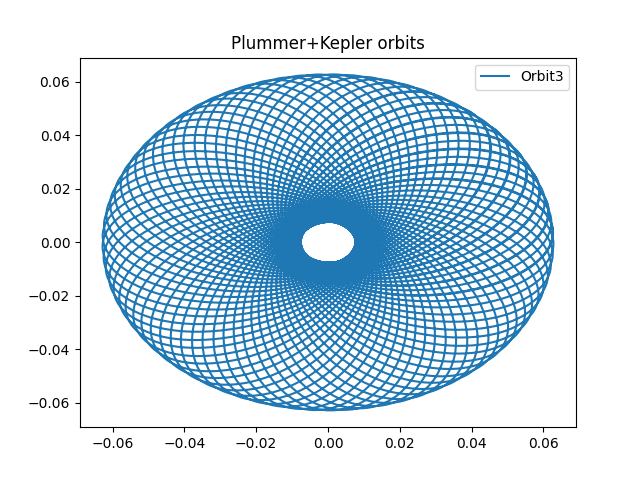
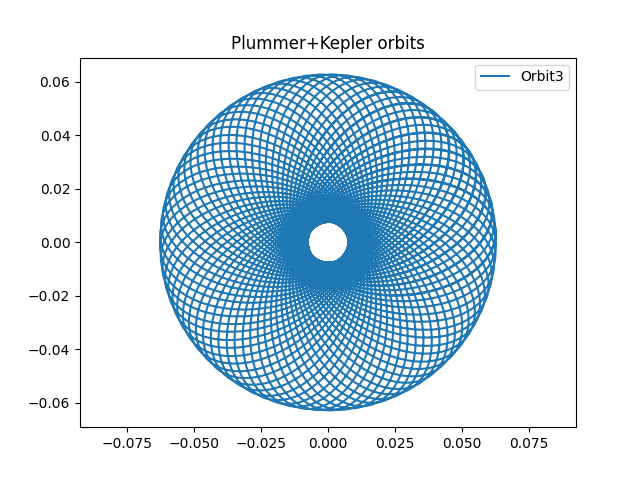
Some fixes

diff --git a/code/try.py b/code/try.py
@@ -10,7 +10,8 @@ G_constant=4.3 * pow(10,-6)
 # try plummer potential
 scaleRadius=2*pow(10,-3)
 mass=pow(10,5)
-
+def relativeVariation(array):
+    return np.divide(np.abs(np.subtract(array,np.full(np.shape(array),array[0]))),np.abs(np.full(np.shape(array),array[0])))
 # check AGAMA plummer model density against analytical formula
 def plummerManualDensity(array):
     result=[]
@@ -99,6 +100,7 @@ result=agama.orbit(potential=plummer,ic=starting_points,time=[0.05,1,5],trajsize
 plt.plot(result[0][1][:,0], result[0][1][:,1],label="Orbit1")
 plt.legend()
 plt.title("Plummer orbits")
+plt.axis('equal')
 plt.savefig("./output/PlummerOrbits1.png")
 plt.show()
 # clear plot
@@ -107,6 +109,7 @@ plt.clf()
 plt.plot(result[1][1][:,0], result[1][1][:,1],label="Orbit2")
 plt.legend()
 plt.title("Plummer orbits")
+plt.axis('equal')
 plt.savefig("./output/PlummerOrbits2.png")
 plt.show()
 # clear plot
@@ -115,6 +118,7 @@ plt.clf()
 plt.plot(result[2][1][:,0], result[2][1][:,1],label="Orbit3")
 plt.legend()
 plt.title("Plummer orbits")
+plt.axis('equal')
 plt.savefig("./output/PlummerOrbits3.png")
 plt.show()
 # clear plot
@@ -160,6 +164,36 @@ plt.savefig("./output/PlummerEnergy.png")
 plt.show()
 plt.clf()
 
+
+#plot energy and actions
+plt.plot(t3, relativeVariation(actionsOrbit2[:,2]),label="Orbit3")
+plt.plot(t2, relativeVariation(actionsOrbit1[:,2]),label="Orbit2")
+plt.plot(t1, relativeVariation(actionsOrbit0[:,2]),label="Orbit1")
+
+plt.legend()
+plt.title("Plummer L_z relative variation")
+plt.savefig("./output/PlummerL_zRel.png")
+plt.show()
+plt.clf()
+
+plt.plot(t3, relativeVariation(actionsOrbit2[:,1]+np.abs(actionsOrbit2[:,2])),label="Orbit3")
+plt.plot(t2, relativeVariation(actionsOrbit1[:,1]+np.abs(actionsOrbit1[:,2])),label="Orbit2")
+plt.plot(t1, relativeVariation(actionsOrbit0[:,1]+np.abs(actionsOrbit0[:,2])),label="Orbit1")
+plt.legend()
+plt.title("Total angular momentum L relative variation")
+plt.savefig("./output/Plummer_angular_momentumRel.png")
+plt.show()
+plt.clf()
+
+
+plt.plot(t3, relativeVariation(energyOrbit2), label="Orbit3")
+plt.plot(t2, relativeVariation(energyOrbit1), label="Orbit2")
+plt.plot(t1, relativeVariation(energyOrbit0), label="Orbit1")
+plt.legend()
+plt.title("Energy relative variation")
+plt.savefig("./output/PlummerEnergyRel.png")
+plt.show()
+plt.clf()
 # clear interpreter memory
 del(result)
 gc.collect()
@@ -170,6 +204,7 @@ result=agama.orbit(potential=BHPotential1,ic=starting_points,time=[0.05,0.1,5],t
 plt.plot(result[0][1][:,0], result[0][1][:,1],label="Orbit1")
 plt.legend()
 plt.title("Plummer+Kepler orbits")
+plt.axis('equal')
 plt.savefig("./output/BHKeplerOrbits1.png")
 plt.show()
 # clear plot
@@ -178,6 +213,7 @@ plt.clf()
 plt.plot(result[1][1][:,0], result[1][1][:,1],label="Orbit2")
 plt.legend()
 plt.title("Plummer+Kepler orbits")
+plt.axis('equal')
 plt.savefig("./output/BHKeplerOrbits2.png")
 plt.show()
 # clear plot
@@ -186,6 +222,7 @@ plt.clf()
 plt.plot(result[2][1][:,0], result[2][1][:,1],label="Orbit3")
 plt.legend()
 plt.title("Plummer+Kepler orbits")
+plt.axis('equal')
 plt.savefig("./output/BHKeplerOrbits3.png")
 plt.show()
 # clear plot
@@ -232,6 +269,37 @@ plt.savefig("./output/BHKeplerEnergy.png")
 plt.show()
 plt.clf()
 
+
+#plot energy and actions
+plt.plot(t3, relativeVariation(actionsOrbit2[:,2]),label="Orbit3")
+plt.plot(t2, relativeVariation(actionsOrbit1[:,2]),label="Orbit2")
+plt.plot(t1, relativeVariation(actionsOrbit0[:,2]),label="Orbit1")
+
+plt.legend()
+plt.title("Plummer+Kepler L_z relative variation")
+plt.savefig("./output/BHKeplerL_zRel.png")
+plt.show()
+plt.clf()
+
+plt.plot(t3, relativeVariation(actionsOrbit2[:,1]+np.abs(actionsOrbit2[:,2])),label="Orbit3")
+plt.plot(t2, relativeVariation(actionsOrbit1[:,1]+np.abs(actionsOrbit1[:,2])),label="Orbit2")
+plt.plot(t1, relativeVariation(actionsOrbit0[:,1]+np.abs(actionsOrbit0[:,2])),label="Orbit1")
+plt.legend()
+plt.title("Total angular momentum L relative variation")
+plt.savefig("./output/BHKepler_angular_momentumRel.png")
+plt.show()
+plt.clf()
+
+
+plt.plot(t3, relativeVariation(energyOrbit2), label="Orbit3")
+plt.plot(t2, relativeVariation(energyOrbit1), label="Orbit2")
+plt.plot(t1, relativeVariation(energyOrbit0), label="Orbit1")
+plt.legend()
+plt.title("Energy relative variation")
+plt.savefig("./output/BHKeplerEnergyRel.png")
+plt.show()
+plt.clf()
+
 # clear interpreter memory
 del(result)
 gc.collect()
@@ -242,6 +310,7 @@ result=agama.orbit(potential=BHPotential2,ic=starting_points,time=[0.05,0.1,5],t
 plt.plot(result[0][1][:,0], result[0][1][:,1],label="Orbit1")
 plt.legend()
 plt.title("Plummer+SmallPlummer orbits")
+plt.axis('equal')
 plt.savefig("./output/BHSmallPlummerOrbits1.png")
 plt.show()
 # clear plot
@@ -250,6 +319,7 @@ plt.clf()
 plt.plot(result[1][1][:,0], result[1][1][:,1],label="Orbit2")
 plt.legend()
 plt.title("Plummer+SmallPlummer orbits")
+plt.axis('equal')
 plt.savefig("./output/BHSmallPlummerOrbits2.png")
 plt.show()
 # clear plot
@@ -258,6 +328,7 @@ plt.clf()
 plt.plot(result[2][1][:,0], result[2][1][:,1],label="Orbit3")
 plt.legend()
 plt.title("Plummer+SmallPlummer orbits")
+plt.axis('equal')
 plt.savefig("./output/BHSmallPlummerOrbits3.png")
 plt.show()
 # clear plot
@@ -304,6 +375,36 @@ plt.savefig("./output/BHSmallPlummerEnergy.png")
 plt.show()
 plt.clf()
 
+
+#plot energy and actions
+plt.plot(t3, relativeVariation(actionsOrbit2[:,2]),label="Orbit3")
+plt.plot(t2, relativeVariation(actionsOrbit1[:,2]),label="Orbit2")
+plt.plot(t1, relativeVariation(actionsOrbit0[:,2]),label="Orbit1")
+
+plt.legend()
+plt.title("Plummer+SmallPlummer L_z relative variation")
+plt.savefig("./output/BHSmallPlummerL_zRel.png")
+plt.show()
+plt.clf()
+
+plt.plot(t3, relativeVariation(actionsOrbit2[:,1]+np.abs(actionsOrbit2[:,2])),label="Orbit3")
+plt.plot(t2, relativeVariation(actionsOrbit1[:,1]+np.abs(actionsOrbit1[:,2])),label="Orbit2")
+plt.plot(t1, relativeVariation(actionsOrbit0[:,1]+np.abs(actionsOrbit0[:,2])),label="Orbit1")
+plt.legend()
+plt.title("Total angular momentum L relative variation")
+plt.savefig("./output/BHSmallPlummer_angular_momentumRel.png")
+plt.show()
+plt.clf()
+
+
+plt.plot(t3, relativeVariation(energyOrbit2), label="Orbit3")
+plt.plot(t2, relativeVariation(energyOrbit1), label="Orbit2")
+plt.plot(t1, relativeVariation(energyOrbit0), label="Orbit1")
+plt.legend()
+plt.title("Energy relative variation")
+plt.savefig("./output/BHSmallPlummerEnergyRel.png")
+plt.show()
+plt.clf()
 # clear interpreter memory
 del(result)
 gc.collect()
@@ -319,6 +420,7 @@ result2=Hernquist.integrate_orbit(starting_points[2].T, dt=0.0000005, n_steps=10
 plt.plot(result.x, result.y,label="Orbit1")
 plt.legend()
 plt.title("Hernquist orbits")
+plt.axis('equal')
 plt.savefig("./output/HernquistOrbits1.png")
 plt.show()
 # clear plot
@@ -327,6 +429,7 @@ plt.clf()
 plt.plot(result1.x, result1.y,label="Orbit2")
 plt.legend()
 plt.title("Hernquist orbits")
+plt.axis('equal')
 plt.savefig("./output/HernquistOrbits2.png")
 plt.show()
 # clear plot
@@ -335,6 +438,7 @@ plt.clf()
 plt.plot(result2.x, result2.y,label="Orbit3")
 plt.legend()
 plt.title("Hernquist orbits")
+plt.axis('equal')
 plt.savefig("./output/HernquistOrbits3.png")
 plt.show()
 # clear plot
@@ -389,6 +493,34 @@ plt.savefig("./output/HernquistEnergy.png")
 plt.show()
 plt.clf()
 
+#plot energy and actions
+plt.plot(t3, relativeVariation(momentumZ2),label="Orbit3")
+plt.plot(t2, relativeVariation(momentumZ1),label="Orbit2")
+plt.plot(t1, relativeVariation(momentumZ0),label="Orbit1")
+plt.legend()
+plt.title("Hernquist L_z relative variation")
+plt.savefig("./output/HernquistL_zRel.png")
+plt.show()
+plt.clf()
+
+plt.plot(t3, relativeVariation(momentumModulo2),label="Orbit3")
+plt.plot(t2, relativeVariation(momentumModulo1),label="Orbit2")
+plt.plot(t1, relativeVariation(momentumModulo0),label="Orbit1")
+plt.legend()
+plt.title("Total angular momentum L relative variation")
+plt.savefig("./output/Hernquist_angular_momentumRel.png")
+plt.show()
+plt.clf()
+
+plt.plot(t3, relativeVariation(energyOrbit2), label="Orbit3")
+plt.plot(t2, relativeVariation(energyOrbit1), label="Orbit2")
+plt.plot(t1, relativeVariation(energyOrbit0), label="Orbit1")
+
+plt.legend()
+plt.title("Energy relative variation")
+plt.savefig("./output/HernquistEnergyRel.png")
+plt.show()
+plt.clf()
 # clear interpreter memory
 del(result)
 gc.collect()
